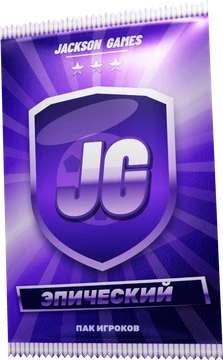
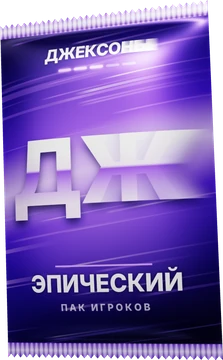
Паки в стиле логотипа канала: «ДЖЕКСОНЫ», знак «ДЖ» с размытием, полосы скорости; «ДЖЕКСОН!!» — чёрный с лаймом
Claude-Session: https://claude.ai/code/session_01VpcaxWoBDaJdgiPA1Q4kL3

diff --git a/js/fcm.js b/js/fcm.js
@@ -89,12 +89,12 @@ const FCM = (() => {
     return `<div class="fm-home">
       <div class="fm-hl">
         ${tile('data-fm-tab="events"', '<img src="img/fcm/ic-events.webp" alt="">', 'События', true, 'c1')}
-        ${typeof Wheel !== 'undefined' ? tile('data-act="wheel"', '<img src="img/packs/pk0-160.webp" alt="">', day ? 'Пак дня' : 'Завтра', day, 'c2') : ''}
+        ${typeof Wheel !== 'undefined' ? tile('data-act="wheel"', '<img src="img/packs/pk0-160.webp?v=b1" alt="">', day ? 'Пак дня' : 'Завтра', day, 'c2') : ''}
         ${tile('data-act="dly"', '<img src="img/fcm/ic-daily.webp" alt="">', 'Игрок дня', false, 'c3')}
       </div>
       <div class="fm-hero2">${SLIDES.map(slide).join('')}</div>
       <div class="fm-hr">
-        <button class="fm-feat" data-fm-tab="store"><b>Паки Jackson Games</b>${PKS.map((x, i) => `<span class="fm-pf ${i === pkI ? 'on' : ''} ${x.lv.length > 1 ? 'all' : ''}" data-i="${i}">${x.lv.map((l) => `<img src="img/packs/pk${l}-360.webp" alt="">`).join('')}<em>${x.t}</em></span>`).join('')}</button>
+        <button class="fm-feat" data-fm-tab="store"><b>Паки Jackson Games</b>${PKS.map((x, i) => `<span class="fm-pf ${i === pkI ? 'on' : ''} ${x.lv.length > 1 ? 'all' : ''}" data-i="${i}">${x.lv.map((l) => `<img src="img/packs/pk${l}-360.webp?v=b1" alt="">`).join('')}<em>${x.t}</em></span>`).join('')}</button>
         <div class="fm-hr2">
           <button class="fm-club" data-fm-tab="team"><b>Клуб</b><span><i class="fm-ovr"><small>ОБЩ</small><b>${inf.r || '—'}</b></i></span></button>
           <button class="fm-playt" data-fm-tab="modes"><svg class="fm-pt-tri" viewBox="0 0 440 220" preserveAspectRatio="none" aria-hidden="true"><path d="M132 116h7l-4 5z" opacity="0.39"/><path d="M156 116h8l-4 6z" opacity="0.42"/><path d="M180 116h9l-4 6z" opacity="0.44"/><path d="M203 115h9l-5 7z" opacity="0.46"/><path d="M227 115h10l-5 7z" opacity="0.49"/><path d="M251 115h11l-5 7z" opacity="0.51"/><path d="M120 140h8l-4 5z" opacity="0.40"/><path d="M144 140h9l-4 6z" opacity="0.44"/><path d="M167 139h10l-5 7z" opacity="0.47"/><path d="M191 139h11l-5 7z" opacity="0.51"/><path d="M214 139h11l-6 8z" opacity="0.54"/><path d="M238 139h12l-6 9z" opacity="0.58"/><path d="M261 138h13l-7 9z" opacity="0.61"/><path d="M84 164h7l-4 5z" opacity="0.39"/><path d="M108 164h9l-4 6z" opacity="0.44"/><path d="M131 163h10l-5 7z" opacity="0.48"/><path d="M154 163h11l-6 8z" opacity="0.53"/><path d="M178 163h12l-6 9z" opacity="0.57"/><path d="M201 162h14l-7 9z" opacity="0.62"/><path d="M225 162h15l-7 10z" opacity="0.66"/><path d="M248 162h16l-8 11z" opacity="0.71"/><path d="M96 188h8l-4 6z" opacity="0.41"/><path d="M119 187h10l-5 7z" opacity="0.47"/><path d="M142 187h11l-6 8z" opacity="0.53"/><path d="M166 187h13l-6 9z" opacity="0.58"/><path d="M189 186h14l-7 10z" opacity="0.64"/><path d="M212 186h16l-8 11z" opacity="0.70"/><path d="M235 185h17l-9 12z" opacity="0.75"/><path d="M259 185h19l-9 13z" opacity="0.81"/><path d="M84 212h9l-4 6z" opacity="0.44"/><path d="M107 211h10l-5 7z" opacity="0.50"/><path d="M130 211h12l-6 9z" opacity="0.57"/><path d="M153 210h14l-7 10z" opacity="0.64"/><path d="M176 210h16l-8 11z" opacity="0.71"/><path d="M199 209h18l-9 12z" opacity="0.77"/><path d="M222 209h19l-10 14z" opacity="0.84"/><path d="M245 208h21l-11 15z" opacity="0.91"/></svg><img class="fm-pt-ball" src="img/fcm/ball-net.webp?v=2" alt=""><b>Играть</b></button>
@@ -378,7 +378,7 @@ const FCM = (() => {
   }
   const price = (x) => `${x.coins ? `<span class="fm-pr c">${coin}${x.coins}</span>` : ''}${x.stars ? `<span class="fm-pr s">${StarShop.free() ? 0 : x.stars} ⭐</span>` : ''}`;
   const pkCard = (x, big) => `<button class="fm-pk lv${x.level} ${big ? 'big' : ''}" data-fm-pk="${x.id}">
-      <i class="fm-pk-glow"></i><img class="fm-pk-img" src="img/packs/pk${x.level}-360.webp" alt="" loading="lazy" draggable="false">
+      <i class="fm-pk-glow"></i><img class="fm-pk-img" src="img/packs/pk${x.level}-360.webp?v=b1" alt="" loading="lazy" draggable="false">
       <span class="fm-pk-t"><b>${esc(x.name)}</b><span class="fm-chips">${chips(x).map((c) => `<em>${esc(c)}</em>`).join('')}</span></span>
       <span class="fm-pk-p">${price(x)}</span></button>`;
   function store() {
@@ -389,10 +389,10 @@ const FCM = (() => {
     if (sub.store === 'top') {
       const jack = list.find((x) => x.id === 'jack'), rest = list.filter((x) => ['basic', 'gold', 'legend'].includes(x.id));
       body = `<div class="fm-st-top">
-        ${jack ? `<button class="fm-st-hero" data-fm-pk="jack"><i class="fm-st-rays"></i><img src="img/packs/pk4-360.webp" alt="" draggable="false">
+        ${jack ? `<button class="fm-st-hero" data-fm-pk="jack"><i class="fm-st-rays"></i><img src="img/packs/pk4-360.webp?v=b1" alt="" draggable="false">
           <span><small>Лучший пак</small><b>${esc(jack.name)}</b><em>${esc(jack.sub)}</em><span class="fm-pk-p">${price(jack)}</span></span></button>` : ''}
         <div class="fm-st-col">
-          <button class="fm-daypk ${day ? 'hot' : ''}" data-act="wheel"><img src="img/packs/pk0-160.webp" alt=""><span><b>Пак дня</b><small>${day ? 'Бесплатно — забери сейчас' : 'Новый пак завтра'}</small></span><em>${day ? 'Забрать' : 'Завтра'}</em></button>
+          <button class="fm-daypk ${day ? 'hot' : ''}" data-act="wheel"><img src="img/packs/pk0-160.webp?v=b1" alt=""><span><b>Пак дня</b><small>${day ? 'Бесплатно — забери сейчас' : 'Новый пак завтра'}</small></span><em>${day ? 'Забрать' : 'Завтра'}</em></button>
           <div class="fm-st-mini">${rest.map((x) => pkCard(x)).join('')}</div>
         </div></div>`;
     } else if (sub.store === 'packs') body = `<div class="fm-pks">${list.map((x) => pkCard(x)).join('')}</div>`;
@@ -406,7 +406,7 @@ const FCM = (() => {
     const P = Cards.PACKS[x.level], tot = P.w.reduce((a, w) => a + w[1], 0);
     const el = document.createElement('div'); el.className = `fm-sheet lv${x.level}`;
     el.innerHTML = `<div class="fm-sh-card">
-        <div class="fm-sh-art"><i class="fm-st-rays"></i><img src="img/packs/pk${x.level}-360.webp" alt="" draggable="false"></div>
+        <div class="fm-sh-art"><i class="fm-st-rays"></i><img src="img/packs/pk${x.level}-360.webp?v=b1" alt="" draggable="false"></div>
         <div class="fm-sh-info">
           <small>Пак</small><b>${esc(x.name)}</b>
           <span class="fm-chips">${chips(x).map((c) => `<em>${esc(c)}</em>`).join('')}</span>

diff --git a/css/fcm.css b/css/fcm.css
@@ -192,7 +192,7 @@
   .fm-of { display: grid; grid-template-rows: auto auto 1fr auto; justify-items: center; gap: 5px; padding: 12px 10px 10px; border-radius: 10px; text-align: center;
     background: linear-gradient(180deg, rgba(30,52,88,.95), rgba(10,18,34,.95)); box-shadow: inset 0 0 0 1px var(--fm-edge), 0 10px 20px -8px rgba(0,0,0,.6); }
   .fm-of.lv1 { background: linear-gradient(180deg, rgba(20,60,140,.9), rgba(10,18,40,.95)); } .fm-of.lv2 { background: linear-gradient(180deg, rgba(90,30,150,.9), rgba(16,10,40,.95)); }
-  .fm-of.lv3 { background: linear-gradient(180deg, rgba(150,110,20,.9), rgba(30,22,8,.95)); } .fm-of.lv4 { background: linear-gradient(180deg, rgba(150,20,40,.9), rgba(30,8,12,.95)); }
+  .fm-of.lv3 { background: linear-gradient(180deg, rgba(150,110,20,.9), rgba(30,22,8,.95)); } .fm-of.lv4 { background: linear-gradient(180deg, rgba(90,120,20,.9), rgba(10,12,6,.95)); }
   .fm-of-art { height: clamp(60px, 20vh, 92px); display: grid; place-items: center; } .fm-of-art .fpk { --pw: 62px; --ph: 86px; }
   .fm-of b { font: italic 800 17px/1 "Barlow Condensed", sans-serif; text-transform: uppercase; } .fm-of small { font: 600 12px/1.2 "Barlow Condensed", sans-serif; color: #c7d4e6; }
   .fm-of .fm-btn { width: 100%; }
@@ -351,7 +351,7 @@
 .fm-sheet { display: none; }
 @media (orientation: landscape) and (max-height: 620px) {
   .fm-pk, .fm-sheet, .fm-st-hero { --pc: #7fe0a0; }
-  .lv1 { --pc: #56d4ff; } .lv2 { --pc: #b98bff; } .lv3 { --pc: #f2cb5c; } .lv4 { --pc: #ff4f66; }
+  .lv1 { --pc: #56d4ff; } .lv2 { --pc: #b98bff; } .lv3 { --pc: #f2cb5c; } .lv4 { --pc: #c6ff3d; }
   .fm-pk { position: relative; overflow: hidden; display: grid !important; grid-template-rows: minmax(0, 1fr) auto auto; justify-items: center; gap: 6px; padding: 10px 10px 10px !important; border-radius: 12px; text-align: center !important;
     background: radial-gradient(70% 55% at 50% 38%, color-mix(in srgb, var(--pc) 35%, transparent), transparent 70%), linear-gradient(180deg, rgba(18,30,56,.92), rgba(6,12,26,.95)) !important;
     box-shadow: inset 0 0 0 1.5px color-mix(in srgb, var(--pc) 45%, transparent), 0 10px 22px -8px rgba(0,0,0,.7); }
@@ -373,13 +373,13 @@
   .fm-pks .fm-pk { min-height: 200px; }
   /* «Главное»: большой баннер лучшего пака + пак дня и три пака */
   .fm-st-top { display: grid; grid-template-columns: minmax(0, 1fr) minmax(0, 1.25fr); gap: 10px; height: 100%; min-height: 230px; }
-  .fm-st-hero { --pc: #ff4f66; position: relative; overflow: hidden; display: grid !important; grid-template-columns: auto minmax(0, 1fr); align-items: center; gap: 10px; padding: 12px !important; border-radius: 12px;
-    background: radial-gradient(60% 80% at 25% 50%, rgba(255,60,90,.4), transparent 70%), linear-gradient(135deg, #3a0a1c, #12060f 60%, #0b0b1a) !important; box-shadow: inset 0 0 0 1.5px rgba(255,79,102,.55), 0 0 26px rgba(255,60,90,.18); }
-  .fm-st-hero img { position: relative; height: clamp(110px, 40vh, 170px); width: auto; filter: drop-shadow(0 10px 18px rgba(0,0,0,.6)) drop-shadow(0 0 20px rgba(255,79,102,.55)); animation: fm-float 3.6s ease-in-out infinite; }
+  .fm-st-hero { --pc: #c6ff3d; position: relative; overflow: hidden; display: grid !important; grid-template-columns: auto minmax(0, 1fr); align-items: center; gap: 10px; padding: 12px !important; border-radius: 12px;
+    background: radial-gradient(60% 80% at 25% 50%, rgba(198,255,61,.28), transparent 70%), linear-gradient(135deg, #1a2208, #070806 60%, #050505) !important; box-shadow: inset 0 0 0 1.5px rgba(198,255,61,.5), 0 0 26px rgba(198,255,61,.14); }
+  .fm-st-hero img { position: relative; height: clamp(110px, 40vh, 170px); width: auto; filter: drop-shadow(0 10px 18px rgba(0,0,0,.6)) drop-shadow(0 0 20px rgba(198,255,61,.4)); animation: fm-float 3.6s ease-in-out infinite; }
   .fm-st-hero > span { position: relative; display: grid; gap: 6px; }
-  .fm-st-hero small { font: 700 12px/1 "Barlow Condensed", sans-serif; letter-spacing: .14em; text-transform: uppercase; color: #ff9aa8; }
+  .fm-st-hero small { font: 700 12px/1 "Barlow Condensed", sans-serif; letter-spacing: .14em; text-transform: uppercase; color: #c6ff3d; }
   .fm-st-hero b { font: italic 800 clamp(20px, 6.5vh, 28px)/1 "Barlow Condensed", sans-serif; text-transform: uppercase; }
-  .fm-st-hero em { font: 600 13px/1.25 "Barlow Condensed", sans-serif; color: #f2cfd5; } .fm-st-hero .fm-pk-p { justify-content: flex-start; }
+  .fm-st-hero em { font: 600 13px/1.25 "Barlow Condensed", sans-serif; color: #d4dcc4; } .fm-st-hero .fm-pk-p { justify-content: flex-start; }
   .fm-st-rays { position: absolute; left: 28%; top: 50%; width: 160%; aspect-ratio: 1; transform: translate(-50%, -50%); pointer-events: none;
     background: repeating-conic-gradient(from 0deg, color-mix(in srgb, var(--pc) 26%, transparent) 0 7deg, transparent 7deg 20deg); -webkit-mask: radial-gradient(closest-side, #000 15%, transparent); mask: radial-gradient(closest-side, #000 15%, transparent); animation: fm-spin 30s linear infinite; }
   .fm-st-col { display: grid; grid-template-rows: auto minmax(0, 1fr); gap: 10px; min-height: 0; }

diff --git a/index.html b/index.html
@@ -776,10 +776,10 @@
 <link rel="stylesheet" href="css/social.css?v=20261015-ref1">
 <link rel="stylesheet" href="css/land.css?v=20261027-l1">
 <link rel="stylesheet" href="css/onboard.css?v=20261029-ob2">
-<link rel="stylesheet" href="css/fcm.css?v=20261029-q1">
+<link rel="stylesheet" href="css/fcm.css?v=20261029-b1">
 <script defer src="js/social.js?v=20261015-shop1"></script>
-<script defer src="js/packs.js?v=20261028-g3a"></script>
-<script defer src="js/rewards.js?v=20261029-q1"></script>
+<script defer src="js/packs.js?v=20261029-b1"></script>
+<script defer src="js/rewards.js?v=20261029-b1"></script>
 <script defer src="js/sbc.js?v=20261016-trk"></script>
 <script defer src="js/legends.js?v=20261014-ita2"></script>
 <script defer src="js/gate.js?v=20261014a"></script>
@@ -836,8 +836,8 @@
 <script defer src="js/board.js?v=20261014-social1"></script>
 <script defer src="js/track.js?v=20261016-trk"></script>
 <script defer src="js/app.js?v=20261029-w1"></script>
-<script defer src="js/onboard.js?v=20261029-ob3"></script>
-<script defer src="js/fcm.js?v=20261029-q1"></script>
+<script defer src="js/onboard.js?v=20261029-b1"></script>
+<script defer src="js/fcm.js?v=20261029-b1"></script>
 <script>
 /* Автообновление: Telegram держит старую копию игры. При запуске (и при возврате в игру на главной) сверяем
    версии файлов (?v=…) в свежем index.html с текущими; если вышло обновление — перезагружаем с обходом кэша.

diff --git a/js/packs.js b/js/packs.js
@@ -22,7 +22,7 @@ const PackOpen = (() => {
   // рисунок пака по редкости (img/packs/pk*.webp); объём нарисован на самой картинке
   const PIMG = ['pk-silver', 'pk-blue', 'pk-purple', 'pk-gold', 'pk-black'];
   // новые паки Jackson Games (27.10): 3D-рендер, tools/art/packs.html
-  const pimg = (lv, sz) => `img/packs/pk${lv}-${sz === 'xxl' || sz === 'xl' ? 360 : 160}.webp`;
+  const pimg = (lv, sz) => `img/packs/pk${lv}-${sz === 'xxl' || sz === 'xl' ? 360 : 160}.webp?v=b1`;
   const art = (lv, sz = '', cap = false) => `<span class="fpk p${lv} ${sz} pimg"><span class="fpk-b">
       <i class="fpk-f" style="-webkit-mask-image:url(${pimg(lv, sz)});mask-image:url(${pimg(lv, sz)})"><img class="fpk-img" src="${pimg(lv, sz)}" alt="" decoding="async" draggable="false"><i class="fpk-sh"></i><em>${LV[lv].short}</em>${cap ? '<i class="po-cap"></i>' : ''}</i>
       <i class="fpk-s"></i><i class="fpk-k"></i></span></span>`;

diff --git a/js/rewards.js b/js/rewards.js
@@ -78,7 +78,7 @@ const Rewards = (() => {
   ];
   const OLD_ROAD = [10, 25, 50, 80, 120, 170, 230, 300, 380, 470, 570, 680, 800, 950, 1100, 1300, 1500, 1750, 2000];
   const PACKNAME = ['Обычный пак', 'Сверхредкий пак', 'Эпический пак', 'Легендарный пак', 'Пак «ДЖЕКСОН!!»'];
-  const PACKCOL = ['#7fe0a0', '#56d4ff', '#b98bff', '#f2cb5c', '#ff4f66'];
+  const PACKCOL = ['#7fe0a0', '#56d4ff', '#b98bff', '#f2cb5c', '#c6ff3d'];
   const CARDNAME = { gold: 'Золотая карточка', legend: 'Карточка-легенда', jack: 'Карточка «Джексон»' };
   function rewardLabel(r) {
     if (r.coins) return { ico: '<i class="coin"></i>', txt: `${r.coins}`, art: `<span class="rs-coins">${Art.img(r.coins >= 150 ? 'coinpile' : 'coins')}</span>`, name: `+${r.coins}` };

diff --git a/js/onboard.js b/js/onboard.js
@@ -81,7 +81,7 @@ const Onboard = (() => {
   function pack() {
     const s = S();
     el.innerHTML = `<div class="ob-pack"><small>Награда за первый выход</small><b>Стартовый пак</b><p>18 карточек: 4 золотых, 6 серебряных, 8 бронзовых</p>
-      <img class="ob-pk" src="img/packs/pk3-360.webp" alt=""><button class="ob-go" data-ob="open">Открыть</button></div>`;
+      <img class="ob-pk" src="img/packs/pk3-360.webp?v=b1" alt=""><button class="ob-go" data-ob="open">Открыть</button></div>`;
     if (s.packGot) { el.querySelector('[data-ob="open"]').textContent = 'Дальше'; el.querySelector('[data-ob="open"]').dataset.ob = 'next'; }
   }
   function openPack() {

diff --git a/docs/tasks.md b/docs/tasks.md
@@ -20,9 +20,10 @@
 | Экран загрузки горизонтальный, «Поверни телефон» стоя | ☁ | ✅ |
 | Старый вид убран, под меню ничего не запускается | ☁ | ✅ |
 | Значки (белые глифы), паки с гербом JG, герб | ☁ | ✅ |
+| Паки в стиле логотипа канала: «ДЖЕКСОНЫ», знак «ДЖ» с размытием, полосы скорости | ☁ | ✅ 29.10 |
 | Плитки режимов с 3D-игроками (пальцы исправлены) | 💻 | ✅ |
 | Баннер главной: живые 3D-игроки вместо картинок | 💻 | 💤 |
-| «Задания» в стиле FC (сейчас простой список) | ☁ | ⏭ |
+| «Задания» в стиле FC: прогресс дня, таймер, полоса пропуска, плитки | ☁ | ✅ 29.10 |
 | «Профиль» и «Настройки» в новом стиле | ☁ | 💤 |
 | Проверка на телефоне: нагрев, плавность меню, шапка между кнопками Telegram | 👤 | ⏭ |
 | «Команда» лагает: карточки и тени перерисовывались каждый кадр, камера качалась | ☁ | ✅ 28.10 |
@@ -59,7 +60,8 @@
 | «Пак дня»: оставить «жми ещё» или обычный бесплатный | ☁ | ❓ экономика |
 | Стартовый пак с выбором страны для новичков (4 зол., 6 сер., 8 бронз.) | ☁ | ✅ 29.10 |
 | Первый выход: тренировка → испытание → моменты → матч с 75-й → сборная → пак → показ разделов | ☁ | ✅ 29.10 |
-| Рынок игроков | — | 💤 отдельный этап |
+| Рынок игроков как в FC на ПК/консолях (цены по рейтингу, ставки, выкуп, налог 5%) | ☁ | ❓ план отправлен, нужен сервер |
+| Украшения клуба: эмблема, форма, стадион, рамка профиля | ☁ | ❓ план отправлен |
 
 ## 4. События и задания
 
@@ -108,6 +110,7 @@
 | Задача | Кто | Статус |
 |---|---|---|
 | Всё открыто с первого входа (тест) | ☁ | ✅ |
+| «Начать заново» в профиле (только превью) — проверить первый вход | ☁ | ✅ 29.10 |
 | Награды события, «Мои паки», стартовый пак — сервер staging | ☁ | ❓ |
 | Выкладка нового вида в основную версию | 👤 | ❓ скажи «выкладывай» |
 | Рабочая база D1, вебхук, платежи | — | 🚫 не трогаем |

diff --git a/docs/product-plan.md b/docs/product-plan.md
@@ -370,3 +370,11 @@ tackle, receive, spin, juggle, gk_idle, gk_dive, gk_catch` (`tools/art/player/re
 Играть. Каждый шаг можно пропустить (пак всё равно выдаётся). Пока идёт обучение — никаких всплывающих окон
 (пак дня, подписка, подсказки тренера). Старые игроки обучение не видят; `?ob=1` — пройти заново.
 Карточки пака выдаются как обычно (`Cards.add`, сохранение игрока); награды на сервере не менялись.
+
+### 29.10 — «Задания» как в FC, паки в стиле канала, «Начать заново»
+- «Задания»: сверху — сколько выполнено (штрихи) и когда обновятся; полоса пропуска с уровнем и следующей наградой; задания плитками 2×2
+  со значком по типу (победы, паки, игры, карточки), готовые к получению — первыми. Награды и очки не менялись.
+- Паки перерисованы (`tools/art/packs.html`): надпись «ДЖЕКСОНЫ», крупный знак «ДЖ» с хвостом движения, полосы скорости, штрихи уровня.
+  «ДЖЕКСОН!!» — чёрный с лаймом (раньше красный); витрина магазина и цвет уровня 4 — лайм. Картинкам добавлен `?v=b1` против кэша Telegram.
+- «Начать заново» в профиле → Настройки, только в превью (`CONFIG.stage`): стирает сохранение, пишет метку сброса в телефон и облако Telegram (`pv_wipe`);
+  копии старше метки при запуске не берутся (сервер staging не трогаем — его старая копия просто игнорируется).
